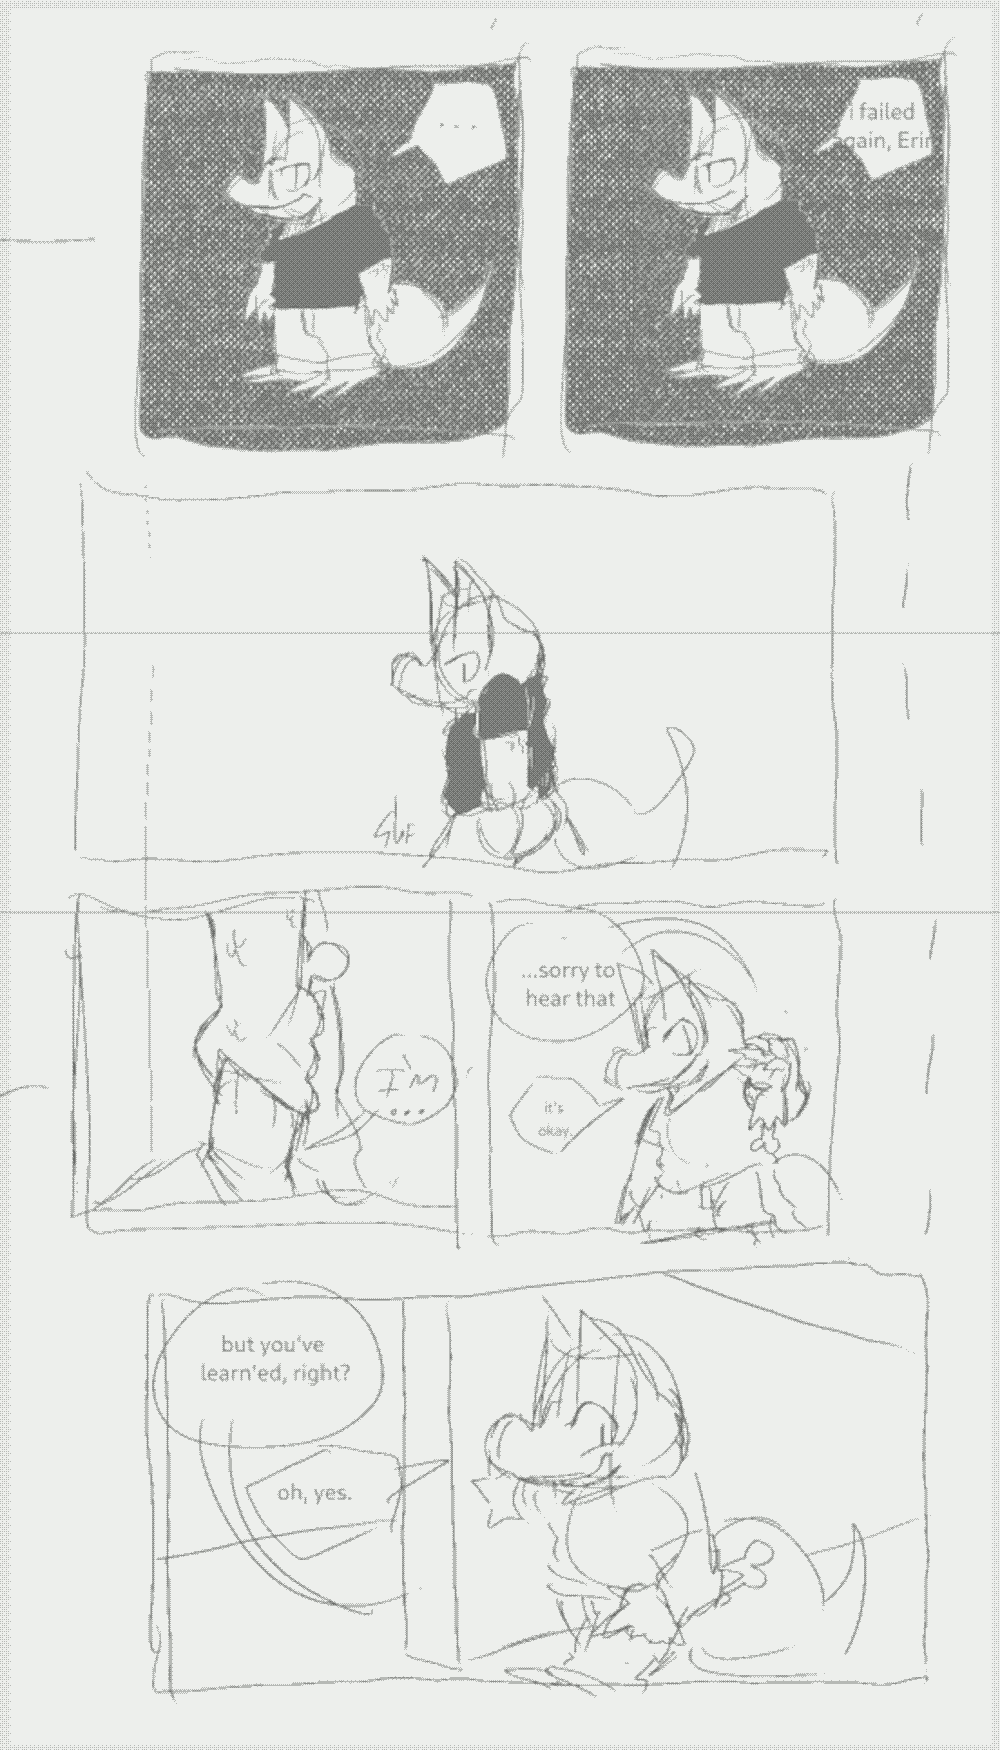
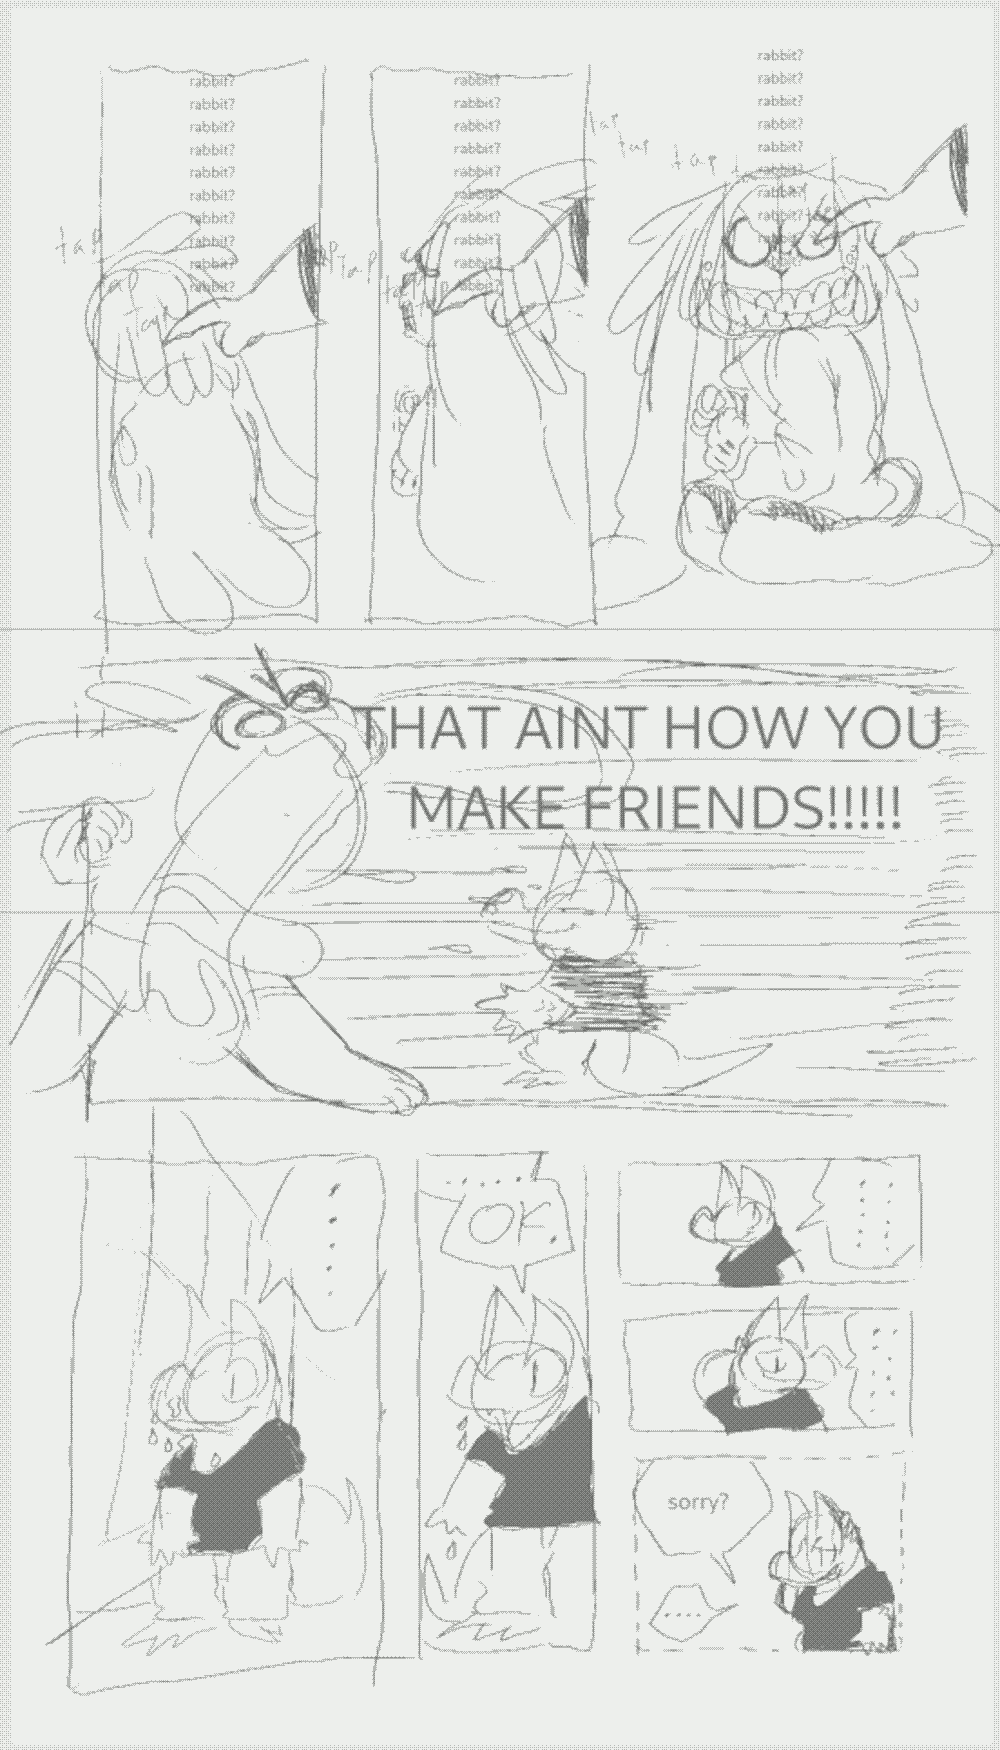
correcting html on 50 and 51
and updating images

diff --git a/assets/pagetray/51.html b/assets/pagetray/51.html
@@ -50,15 +50,15 @@
 
         <main style="margin: auto; background-color: rgba(255, 255, 255, 0);">
             <nav id="behindContent">
-                <a href="47.html"><img id="back3" class="white bg page bgpage dynamicles ani"  src="47e.png" alt="back 3"></a>
-                <a href="48.html"><img id="back2" class="white bg page bgpage dynamicles ani"  src="48e.png" alt="back 2"></a>
-                <a href="49.html"><img id="back1" class="white bg page bgpage dynamicles ani"  src="49e.png" alt="back 1"></a>
+                <a href="48.html"><img id="back3" class="white bg page bgpage dynamicles ani"  src="48e.png" alt="back 3"></a>
+                <a href="49.html"><img id="back2" class="white bg page bgpage dynamicles ani"  src="49e.png" alt="back 2"></a>
+                <a href="50.html"><img id="back1" class="white bg page bgpage dynamicles ani"  src="50e.png" alt="back 1"></a>
 
-                <a href="51.html"><img id="nextpage" class="white bg page bgpage dynamicles ani" alt="next page" src="51e.png"></a>
+                <a href="52.html"><img id="nextpage" class="white bg page bgpage dynamicles ani" alt="next page" src="52e.png"></a>
             </nav>
             
             <div style="z-index: 2; position: relative; width: fit-content; margin: auto; display: flex; align-items: center; justify-content: center;">
-                <a href="index.html"><img id="currentpage" class="white bg page dynamicles ani" alt="current page" src="50e.png"></a>
+                <a href="index.html"><img id="currentpage" class="white bg page dynamicles ani" alt="current page" src="51e.png"></a>
                 <img src="../pagetray/dev.png" id="sticker" class="untouchable boo long" alt="sticker layer">
             </div>
         </main>
@@ -84,10 +84,10 @@
 	<nav class="flexify center divided" style="font-size: 18px;">
 		<span id="pageSelect" class="light grey text" style="display:flex;">
 			<select name="versionselect" style="height:25px; align-self:center;text-transform:uppercase;" onchange="document.getElementById('currentpage').src = this.value">
-				<option value="50e.png">ORIGINAL</option>
+				<option value="51e.png">ORIGINAL</option>
 				<optgroup label="PROGRESS">
-					<option value="old/50s.png">SKETCH</option>
-					<option value="old/50t.png">THUMBNAIL</option>
+					<option value="old/51s.png">SKETCH</option>
+					<option value="old/51t.png">THUMBNAIL</option>
 				</optgroup>
 				<optgroup label="OLD">
 					<option value="50.png">"NO. 42" (12/16/24)</option>
